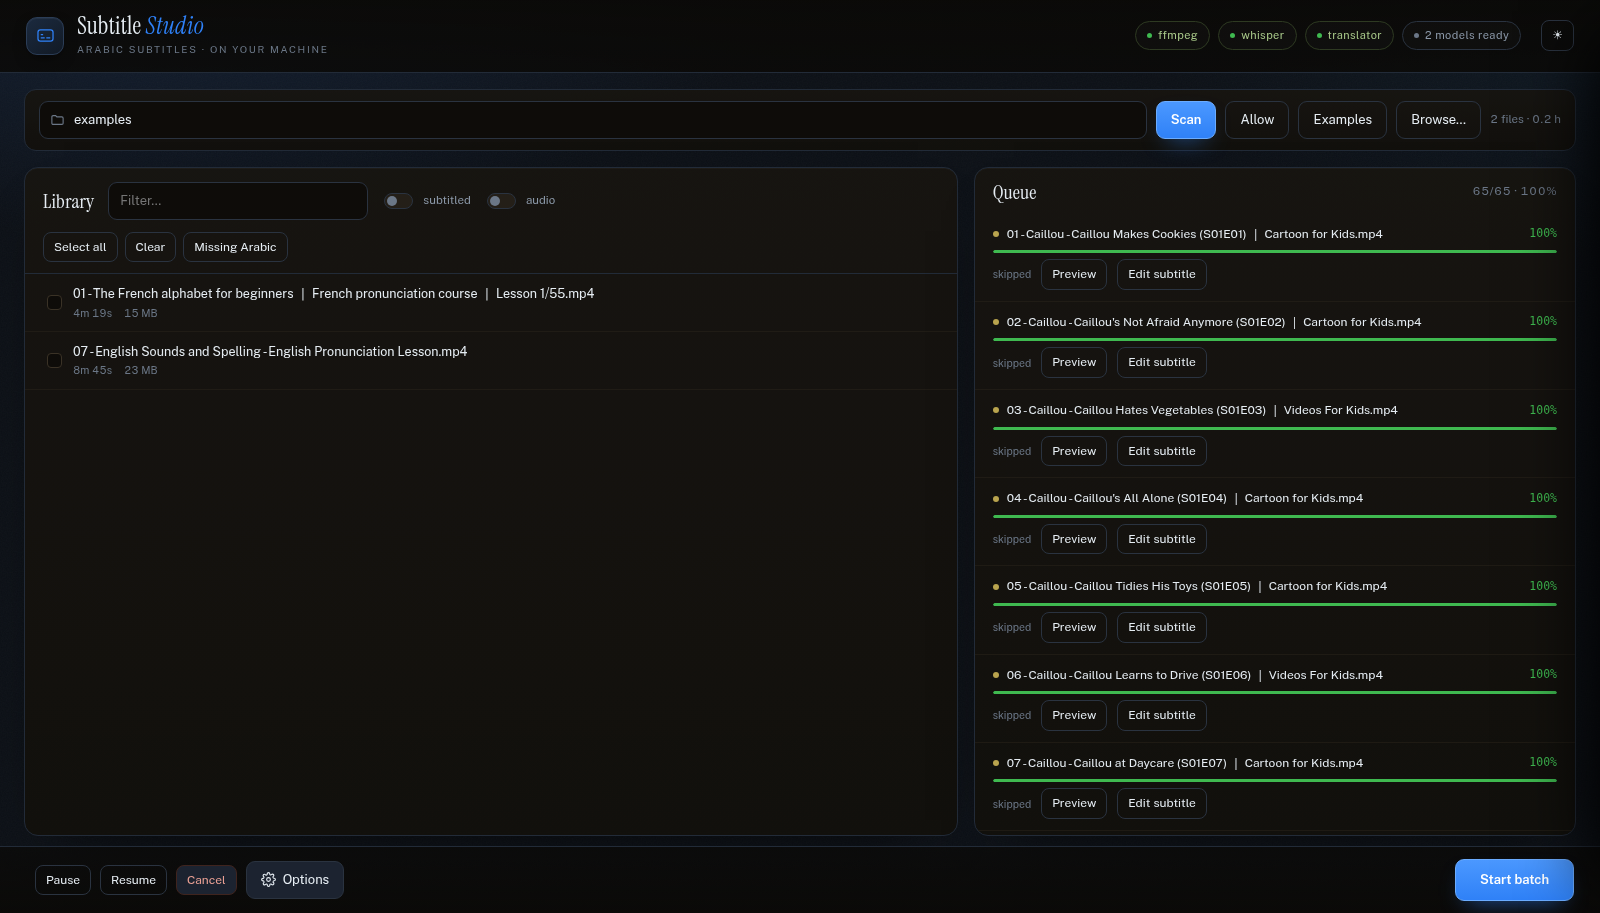
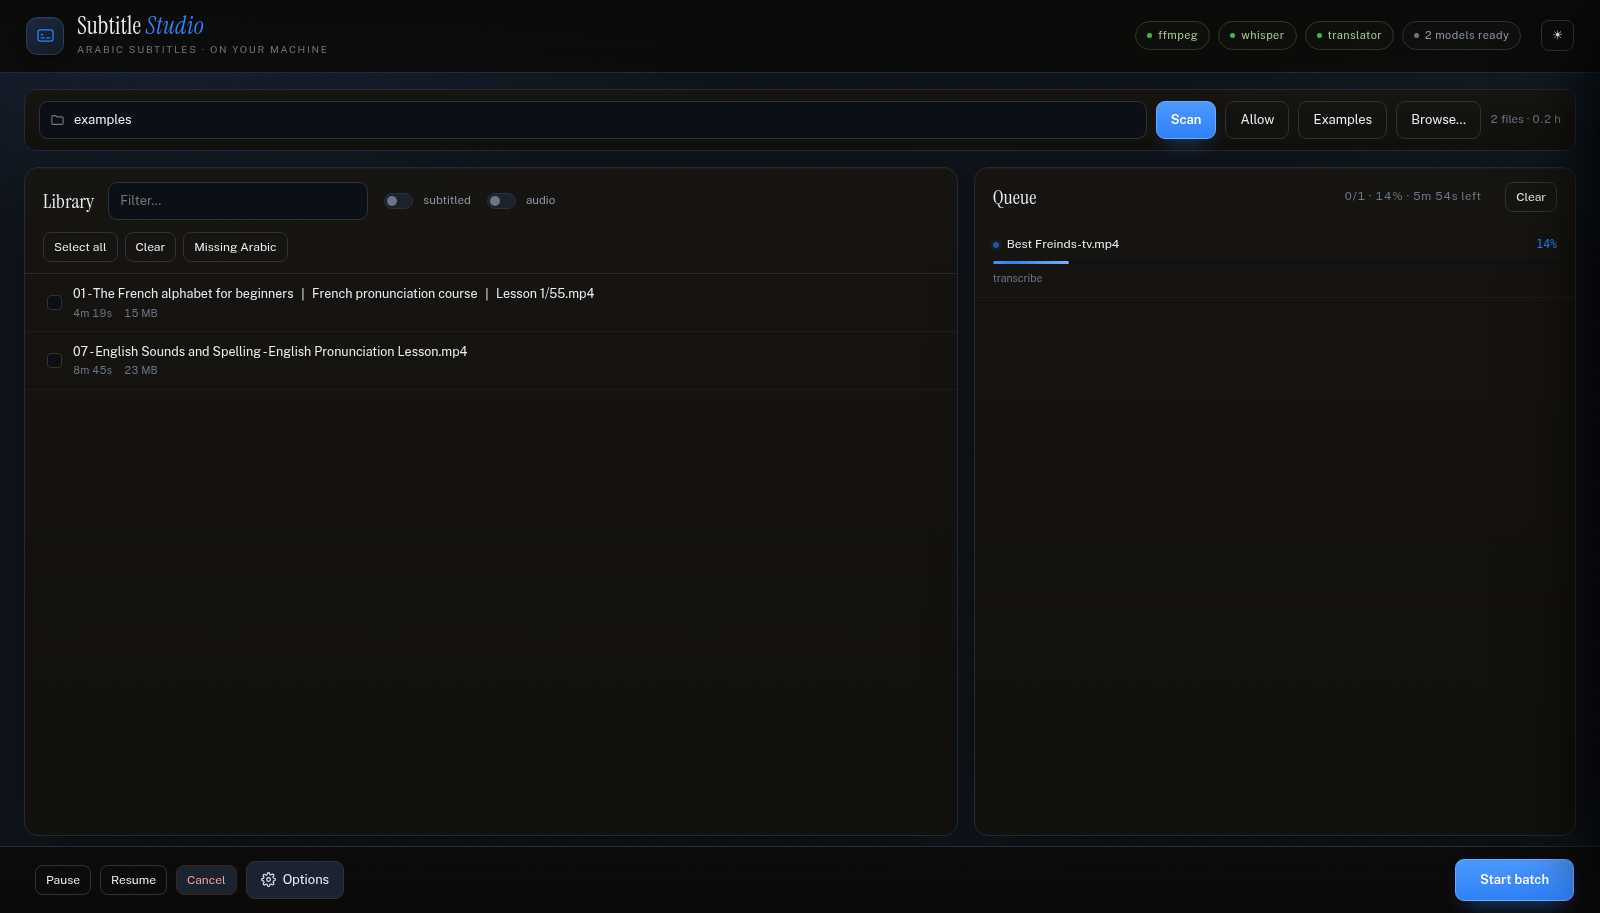
queue: add Clear button to purge finished jobs

diff --git a/app/static/app.js b/app/static/app.js
@@ -685,3 +685,16 @@ async function startModelDownload(size) {
 
 $("#model").onchange = refreshModels;
 refreshModels();
+
+/* ---------------------------------------------------------------- purge queue */
+$("#purge").onclick = async () => {
+  if (!confirm("Remove all finished jobs from the queue?\nSubtitles already written are not touched.")) return;
+  try {
+    const r = await api("/api/jobs/purge", { method: "POST" });
+    const msg = r.removed
+      ? `Cleared ${r.removed} job${r.removed === 1 ? "" : "s"}`
+      : "Nothing to clear";
+    toast(msg + (r.kept ? ` · ${r.kept} still running` : ""), "ok");
+    refreshJobs();
+  } catch (e) { toast(e.message, "err"); }
+};

diff --git a/app/static/index.html b/app/static/index.html
@@ -72,6 +72,7 @@
       <div class="card-head">
         <h2>Queue</h2>
         <span class="sub" id="qsum"></span>
+        <button id="purge" class="btn sm ghost" title="Remove finished jobs from the list">Clear</button>
       </div>
       <div id="queue" class="scroll">
         <div class="empty"><strong>No jobs yet</strong>Select videos, then press start.</div>

diff --git a/app/static/style.css b/app/static/style.css
@@ -632,3 +632,5 @@ html[data-theme="light"] .badge { border-color: #d8d0c0; color: var(--faint); }
 
 .dl-row span { white-space: nowrap; }
 .dl-hint { font-size: 10.5px; color: var(--faint); margin-top: 4px; line-height: 1.4; }
+
+.card-head #purge { margin-left: 10px; }

diff --git a/app/server.py b/app/server.py
@@ -244,6 +244,17 @@ def job_action(jid: str, action: str):
     return {"job": j}
 
 
+@app.post("/api/jobs/purge")
+def purge_jobs():
+    """Drop finished/cancelled jobs from the queue. A running job is kept."""
+    with store.lock:
+        before = len(store.data["jobs"])
+        store.data["jobs"] = [j for j in store.data["jobs"] if j["status"] == "running"]
+        removed = before - len(store.data["jobs"])
+    store.save()
+    return {"removed": removed, "kept": len(store.data["jobs"])}
+
+
 @app.delete("/api/jobs/{jid}")
 def delete_job(jid: str):
     with store.lock:
